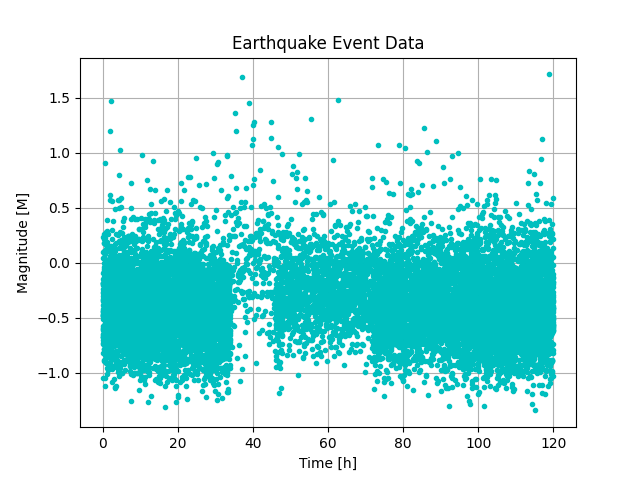
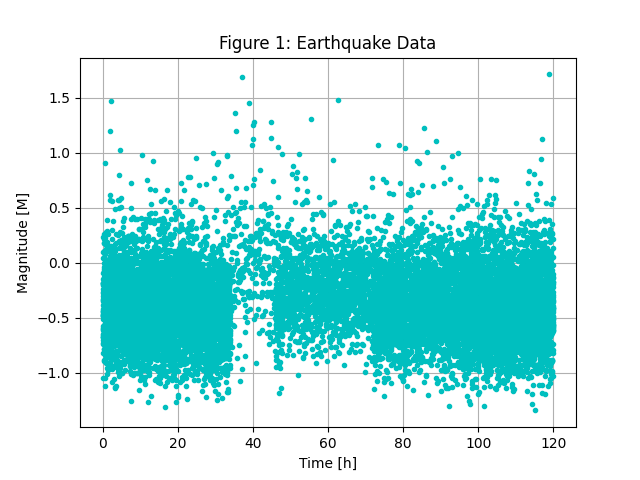
Done!

Changed region(s): [[0.3438, 0.0625, 0.6875, 0.125]]

diff --git a/src/LSR/driver.py b/src/LSR/driver.py
@@ -14,14 +14,24 @@ def main():
     plt.figure()
     plt.xlabel("Time [h]")
     plt.ylabel("Magnitude [M]")
-    plt.title("Earthquake Event Data")
+    plt.title("Figure 1: Earthquake Data")
     plt.plot(time,mag,"c.")
     plt.grid()
     plt.savefig('C:\\Users\\mcdeb\\GOPH420\\GOPH420-W2023-LAB03\\data\\data.png')
 
     #5 distinct events are evident from fig. 1: Creates boundaries for these events and plotting increments for later figures.
-    boundaries = [1e-8,34,45,71,95,time[-1]]
-    incr = np.array([-0.5,-0.25,0,0.25,0.5,0.75,1.0])
+    boundaries = [1e-8,34,45,71,96,time[-1]]
+    incr = np.array([-1.0,-0.75,-0.5,-0.25,0,0.25,0.5,0.75,1.0])
+
+    #Plots vertical lines indicating event boundaries
+    plt.figure()
+    plt.xlabel("Time [h]")
+    plt.ylabel("Magnitude [M]")
+    plt.title("Figure 2: Boundary Data")
+    plt.plot(time,mag,"c.")
+    plt.vlines(boundaries[1:5],-1.5,2)
+    plt.grid()
+    plt.savefig('C:\\Users\\mcdeb\\GOPH420\\GOPH420-W2023-LAB03\\data\\boundaries.png')
     
     #Creates a list of indices in time where boundary cutoffs occur
     k = 0
@@ -30,15 +40,19 @@ def main():
         while i > time[k]:
             k = k + 1
         index = np.append(index,k)
+    
+
+    for i in range(5):
+        print(index[i+1]-index[i])
 
     #Counts the number of events of each magnitude in incr that occur within each boundary set
-    def count(boundaries, interval):
+    def count(slices, window):
         n = np.zeros(0)
-        for i in range(len(boundaries)):
-            n = np.append(n,np.sum(np.where(interval>=boundaries[i],1,0)))
+        for i in range(len(slices)):
+            n = np.append(n,np.sum(np.where(window>=slices[i],1,0)))
         return n
     
-    #Creates lists of log(n) events that occur in at or below each magnitude specified in incr
+    #Creates lists of log(n) events that occur at or above each magnitude specified in incr
     n_list = np.empty((5, len(incr)))
     for i in range (5):
 
@@ -56,7 +70,7 @@ def main():
 
     #Plots log(n) events for each magnitude slice as a function of event magnitude based on raw data
     plt.figure()
-    plt.title("log(N) as a function of M")
+    plt.title("Figure 3: log(N) as a function of M")
     plt.xlabel("Magnitude [M]")
     plt.ylabel("log(N) events")
     for i in range (5):
@@ -78,7 +92,6 @@ def main():
         axs[i].legend(fontsize=8)
         axs[i].grid()
     plt.tight_layout()
-    plt.grid()
     plt.savefig('C:\\Users\\mcdeb\\GOPH420\\GOPH420-W2023-LAB03\\data\\models.png')
 
     #Displays the plots

diff --git a/src/LSR/regression.py b/src/LSR/regression.py
@@ -22,7 +22,6 @@ def multi_regress(y,z):
     model: numpy.ndarray, shape = (m,1)
         Vector of model output
 """
-
     ztz = np.matmul(np.transpose(z),z)
     zty = np.matmul(np.transpose(z),y)
     a = np.matmul(np.linalg.inv(ztz),zty)
